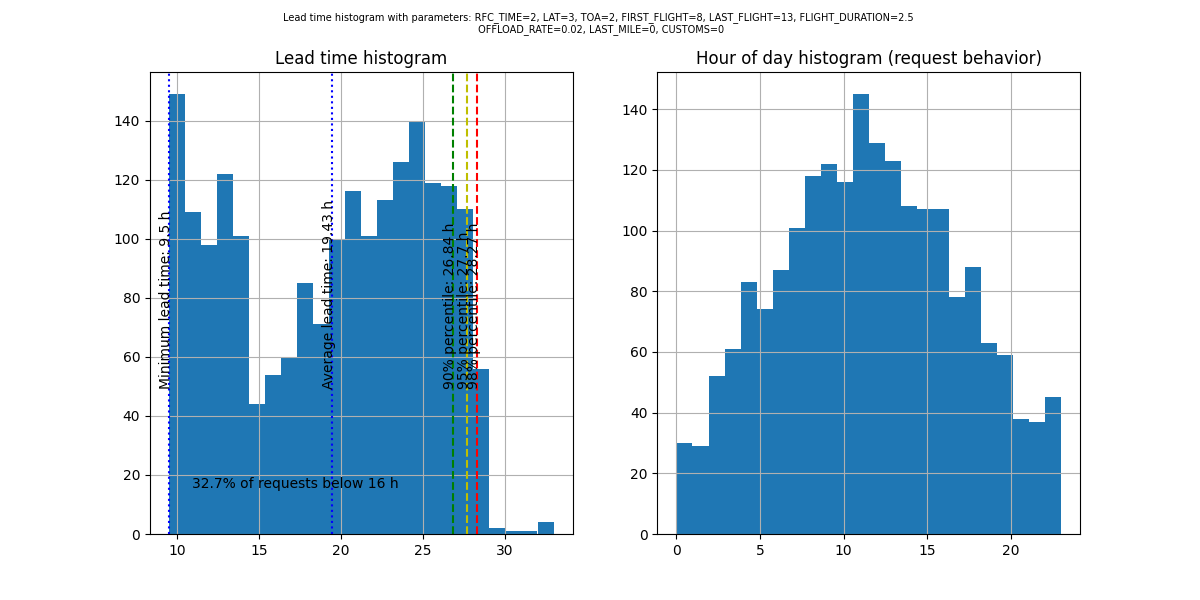
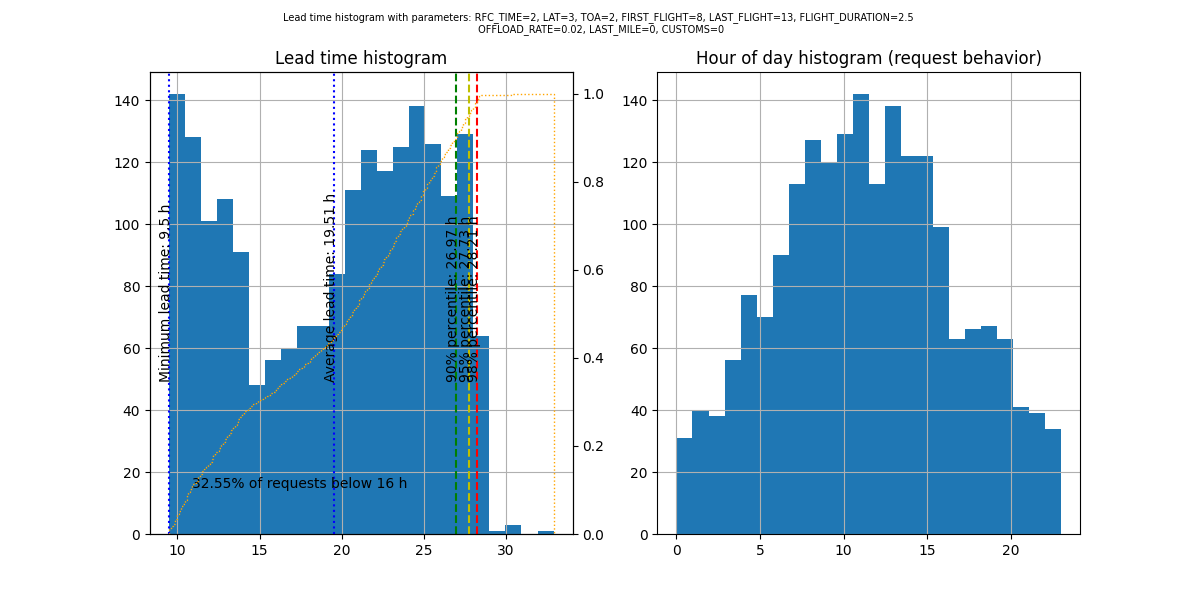
added cummulative line

diff --git a/src/app.py b/src/app.py
@@ -93,6 +93,9 @@ def plot_histograms(df):
     ax1.text(min_lead_time-offset, strpos, f'Minimum lead time: {min_lead_time} h', rotation=90)
     # Add text with percentage of requests below threshold
     ax1.text(0.1, 0.1, f'{percentage_below_threshold}% of requests below {THRESHOLD_HOURS} h', transform=ax1.transAxes)
+    # Add cumulative distribution line on second y-axis
+    ax1b = ax1.twinx()
+    ax1b.hist(df['lead_time'], bins=200, cumulative=True, density=True, histtype='step', color='orange', linestyle='dotted')
 
     # Plot histogram of hour of day of requests
     df['request'].dt.hour.hist(bins=24, ax=ax2)
